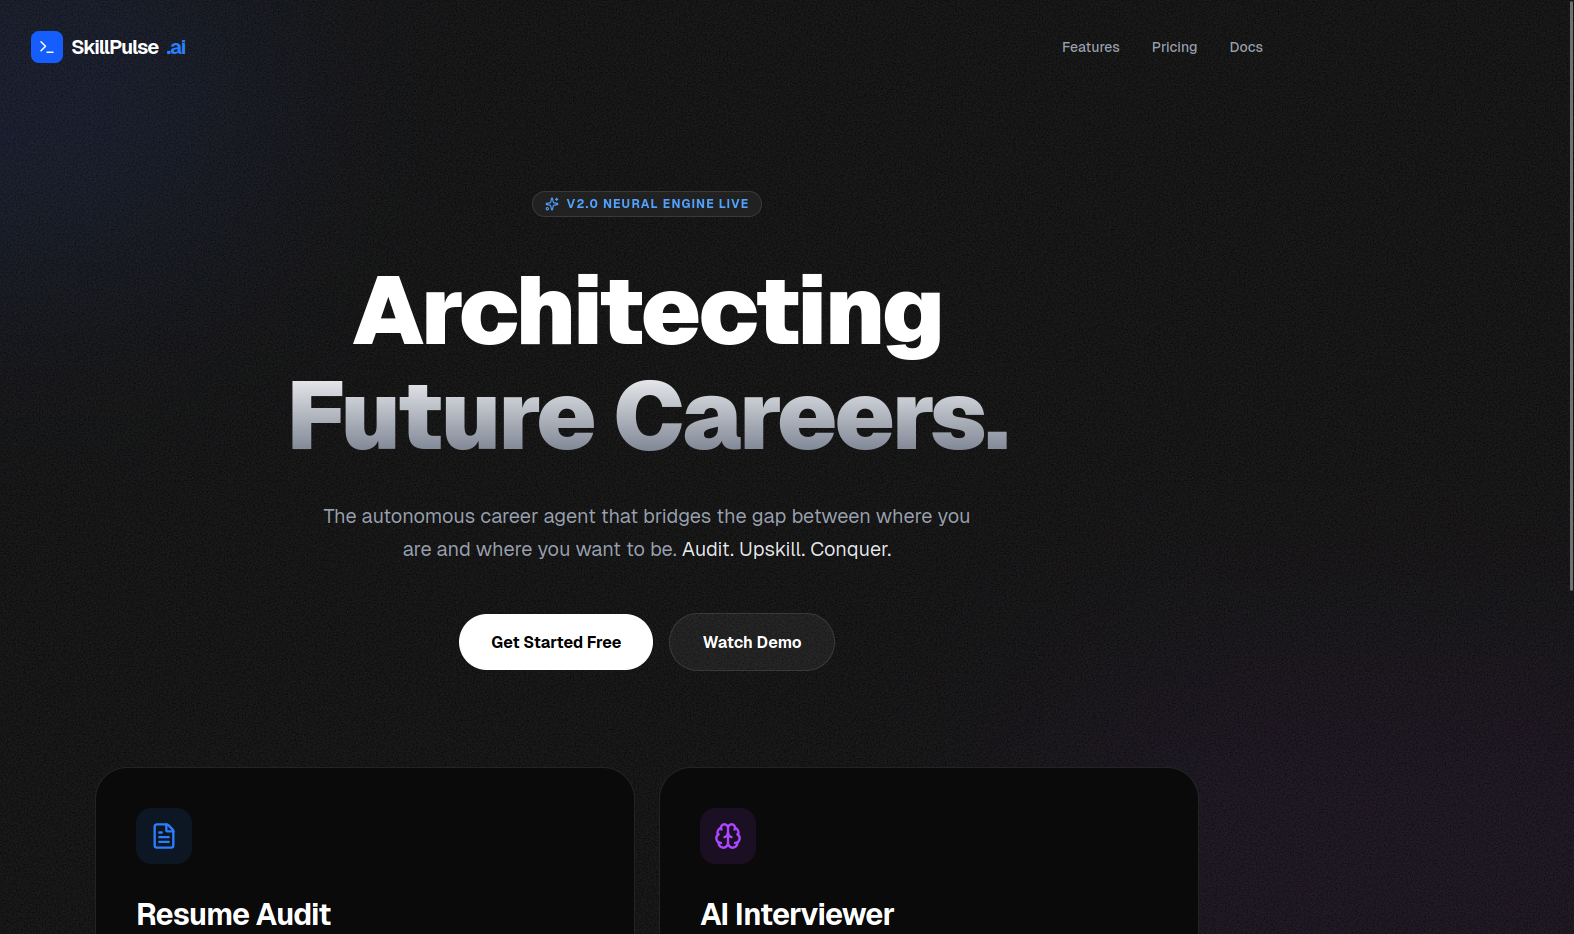
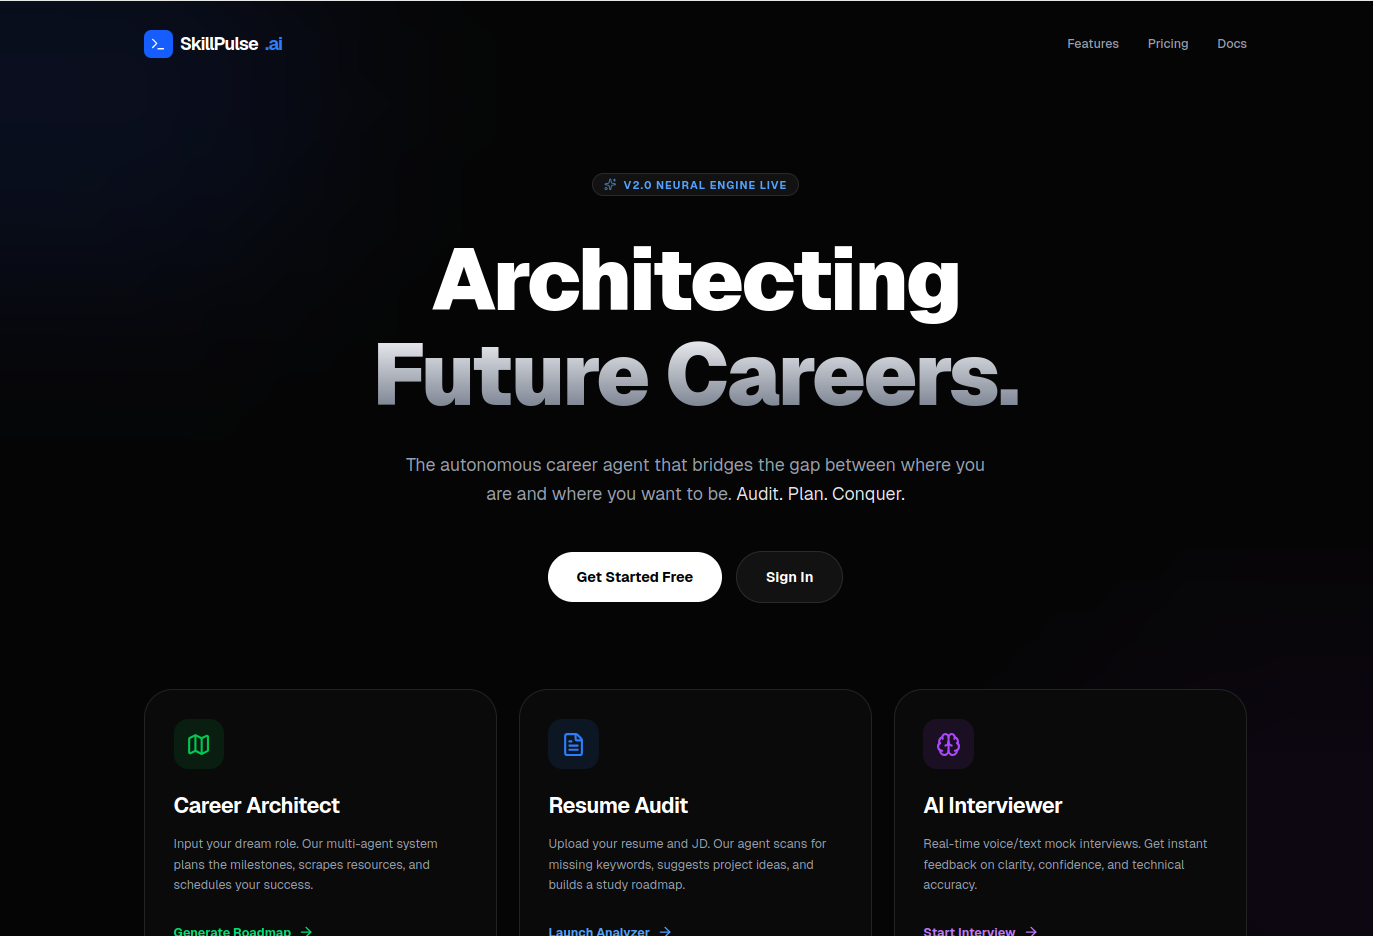
Improved contact

diff --git a/components/contact.tsx b/components/contact.tsx
@@ -15,60 +15,89 @@ export default function Contact() {
     <motion.section
       id="contact"
       ref={ref}
-      className="mb-20 sm:mb-28 w-[min(100%,38rem)] text-center"
-      initial={{
-        opacity: 0,
-      }}
-      whileInView={{
-        opacity: 1,
-      }}
-      transition={{
-        duration: 1,
-      }}
-      viewport={{
-        once: true,
-      }}
+      className="mb-20 sm:mb-28 w-full max-w-[45rem] mx-auto text-center relative z-10 px-4 sm:px-0"
+      initial={{ opacity: 0 }}
+      whileInView={{ opacity: 1 }}
+      transition={{ duration: 1 }}
+      viewport={{ once: true }}
     >
+      {/* Background Ambient Glow */}
+      <div className="absolute top-1/2 left-1/2 -translate-x-1/2 -translate-y-1/2 w-72 h-72 
+                      bg-indigo-500/20 rounded-full blur-[100px] -z-10" />
+
+      {/* Developer Background Watermark */}
+      <div className="absolute -top-10 -right-10 text-[10rem] font-mono font-bold leading-none 
+                      text-indigo-900/[0.02] dark:text-white/[0.02] pointer-events-none select-none -z-10">
+        @
+      </div>
+
       <SectionHeading>Contact me</SectionHeading>
 
-      <p className="text-gray-700 -mt-6 dark:text-white/80">
+      <p className="text-slate-600 dark:text-slate-300 -mt-6 mb-8 text-sm sm:text-base">
         Please contact me directly at{" "}
-        <a className="underline" href="mailto:example@gmail.com">
+        <a 
+          className="font-medium text-indigo-600 dark:text-indigo-400 hover:underline underline-offset-4 transition-all" 
+          href="mailto:ombhanuse364@gmail.com"
+        >
           ombhanuse364@gmail.com
         </a>{" "}
         or through this form.
       </p>
 
-      <form
-        className="mt-10 flex flex-col dark:text-black"
-        action={async (formData) => {
-          const { data, error } = await sendEmail(formData);
+      {/* Glassmorphic Form Container */}
+      <div className="bg-white/40 dark:bg-slate-900/40 border border-white/60 dark:border-slate-800 
+                      backdrop-blur-xl rounded-[2rem] p-6 sm:p-10 shadow-2xl shadow-indigo-500/5 
+                      relative overflow-hidden text-left">
+        
+        <span className="block font-mono text-indigo-500 text-xs sm:text-sm font-semibold mb-6">
+          {`// Send a message`}
+        </span>
 
-          if (error) {
-            toast.error(error);
-            return;
-          }
+        <form
+          className="flex flex-col gap-4 group"
+          action={async (formData) => {
+            const { data, error } = await sendEmail(formData);
 
-          toast.success("Email sent successfully!");
-        }}
-      >
-        <input
-          className="h-14 px-4 rounded-lg borderBlack dark:bg-white dark:bg-opacity-80 dark:focus:bg-opacity-100 transition-all dark:outline-none"
-          name="senderEmail"
-          type="email"
-          required
-          maxLength={500}
-          placeholder="Your email"
-        />
-        <textarea
-          className="h-52 my-3 rounded-lg borderBlack p-4 dark:bg-white dark:bg-opacity-80 dark:focus:bg-opacity-100 transition-all dark:outline-none"
-          name="message"
-          placeholder="Your message"
-          required
-          maxLength={5000}
-        />
-        <SubmitBtn />
-      </form>
+            if (error) {
+              toast.error(error);
+              return;
+            }
+
+            toast.success("Email sent successfully!");
+          }}
+        >
+          <div className="relative">
+            <input
+              className="h-14 w-full px-5 rounded-xl border border-slate-200 dark:border-slate-700 
+                         bg-white/50 dark:bg-slate-800/50 text-slate-900 dark:text-white placeholder-slate-400 
+                         focus:outline-none focus:ring-2 focus:ring-indigo-500/50 focus:border-transparent 
+                         focus:bg-white dark:focus:bg-slate-900 transition-all duration-300 shadow-sm"
+              name="senderEmail"
+              type="email"
+              required
+              maxLength={500}
+              placeholder="Your email"
+            />
+          </div>
+          
+          <div className="relative">
+            <textarea
+              className="h-48 w-full p-5 rounded-xl border border-slate-200 dark:border-slate-700 
+                         bg-white/50 dark:bg-slate-800/50 text-slate-900 dark:text-white placeholder-slate-400 
+                         focus:outline-none focus:ring-2 focus:ring-indigo-500/50 focus:border-transparent 
+                         focus:bg-white dark:focus:bg-slate-900 transition-all duration-300 shadow-sm resize-none"
+              name="message"
+              placeholder="Your message"
+              required
+              maxLength={5000}
+            />
+          </div>
+
+          <div className="mt-2 flex justify-end">
+            <SubmitBtn />
+          </div>
+        </form>
+      </div>
     </motion.section>
   );
 }

diff --git a/components/project.tsx b/components/project.tsx
@@ -41,33 +41,45 @@ export default function Project({
                  rounded-[1.5rem] overflow-hidden backdrop-blur-xl shadow-lg hover:shadow-2xl hover:-translate-y-2 
                  transition-all duration-500 h-full"
     >
-      {/* ── IMAGE SECTION (Reduced Height) ── */}
-      {/* Changed height from h-64/72 to h-48/56 to make the card less top-heavy */}
-      <div className="relative h-48 sm:h-56 w-full overflow-hidden border-b border-slate-200 dark:border-slate-800">
-        <Image
-          src={imageUrl}
-          alt={title}
-          fill
-          className="object-cover object-top transition-transform duration-700 group-hover:scale-105"
-        />
-        <div className="absolute inset-0 bg-indigo-900/10 dark:bg-indigo-400/10 opacity-0 group-hover:opacity-100 transition-opacity duration-500" />
+      {/* ── IMAGE SECTION (Browser Mockup Style) ── */}
+      <div className="relative w-full aspect-[16/10] overflow-hidden border-b border-slate-200 dark:border-slate-800 bg-slate-100 dark:bg-slate-800/50">
+        
+        {/* Mac OS Style Browser Top Bar */}
+        <div className="absolute top-0 left-0 w-full h-7 sm:h-8 bg-white/60 dark:bg-slate-900/60 backdrop-blur-md 
+                        border-b border-slate-200/50 dark:border-slate-700/50 flex items-center px-3 sm:px-4 gap-1.5 sm:gap-2 z-10">
+          <div className="w-2 h-2 sm:w-2.5 sm:h-2.5 rounded-full bg-rose-400/80 shadow-inner"></div>
+          <div className="w-2 h-2 sm:w-2.5 sm:h-2.5 rounded-full bg-amber-400/80 shadow-inner"></div>
+          <div className="w-2 h-2 sm:w-2.5 sm:h-2.5 rounded-full bg-emerald-400/80 shadow-inner"></div>
+        </div>
+
+        {/* The Actual Image (FIXED: Now inside an absolutely positioned container) */}
+        <div className="absolute top-7 sm:top-8 left-0 right-0 bottom-0 overflow-hidden">
+          <Image
+            src={imageUrl}
+            alt={title}
+            fill
+            quality={95}
+            className="object-cover object-top transition-transform duration-700 group-hover:scale-105"
+          />
+        </div>
+        
+        {/* Subtle dark overlay on hover */}
+        <div className="absolute inset-0 bg-indigo-900/10 dark:bg-indigo-400/10 opacity-0 group-hover:opacity-100 transition-opacity duration-500 pointer-events-none z-20" />
       </div>
 
-      {/* ── CONTENT SECTION (Tightened Padding) ── */}
-      {/* Reduced padding from p-8 to p-5/6 */}
-      <div className="flex flex-col flex-grow p-5 sm:p-6">
+      {/* ── CONTENT SECTION ── */}
+      <div className="flex flex-col flex-grow p-5 sm:p-6 sm:pt-7">
         
-        <h3 className="text-xl sm:text-2xl font-bold text-slate-900 dark:text-white mb-2">
+        <h3 className="text-xl sm:text-2xl font-bold text-slate-900 dark:text-white mb-2 tracking-tight">
           {title}
         </h3>
         
-        {/* Added line-clamp-4 to force a maximum height limit on text */}
-        <p className="mt-2 text-slate-600 dark:text-slate-300 leading-relaxed text-sm mb-5 flex-grow line-clamp-4">
+        <p className="mt-2 text-slate-600 dark:text-slate-300 leading-relaxed text-sm mb-6 flex-grow line-clamp-4">
           {description}
         </p>
         
-        {/* Tech Stack Tags (Reduced bottom margin) */}
-        <ul className="flex flex-wrap gap-1.5 mb-6">
+        {/* Tech Stack Tags */}
+        <ul className="flex flex-wrap gap-1.5 sm:gap-2 mb-7">
           {tags.map((tag, idx) => (
             <li
               key={idx}
@@ -81,14 +93,14 @@ export default function Project({
         </ul>
 
         {/* ── ACTION BUTTONS ── */}
-        <div className="flex items-center gap-3 mt-auto pt-4 border-t border-slate-200 dark:border-slate-800/60">
+        <div className="flex items-center gap-3 mt-auto pt-5 border-t border-slate-200/80 dark:border-slate-800/80">
           
           <a
             href={link}
             target="_blank"
             rel="noopener noreferrer"
             className="flex-1 group/btn flex items-center justify-center gap-2 bg-slate-900 dark:bg-white 
-                       text-white dark:text-slate-900 px-4 py-2.5 rounded-xl text-xs sm:text-sm font-semibold transition-all 
+                       text-white dark:text-slate-900 px-4 py-2.5 sm:py-3 rounded-xl text-xs sm:text-sm font-semibold transition-all 
                        hover:scale-[1.02] active:scale-95 shadow-md"
           >
             View Live Project

diff --git a/lib/data.ts b/lib/data.ts
@@ -91,7 +91,7 @@ export const projectsData = [
     title: "StudentGPT - AI Academic Assistant",
     description:
       "Built an AI-powered chatbot to automate students’ academic queries such as attendance, timetable and syllabus retrieval. Implemented a Retrieval-Augmented Generation (RAG) pipeline with PDF/DOCX document parsing and LLM integration to enable users to upload documents and receive AI-driven, context-aware responses.",
-    tags: ["Next.js", "Typescript", "Groq API", "Pdf-parser","MySQL","Agentic AI"],
+    tags: ["Next.js", "Typescript", "Groq API", "LLM", "RAG","Pdf-parser","MySQL","Agentic AI"],
     imageUrl:chatbot,
     type:"web",
     link: "https://dypcet-chatbot.vercel.app/",

diff --git a/components/intro.tsx b/components/intro.tsx
@@ -219,7 +219,7 @@ export default function Intro() {
           >
             {[
               { val: "10+", label: "Projects" },
-              { val: "2+", label: "Years coding" },
+              { val: "5+", label: "Years coding" },
               { val: "5+", label: "Tech Stack" },
             ].map(({ val, label }) => (
               <div key={label} className="flex flex-col items-center sm:items-start">
